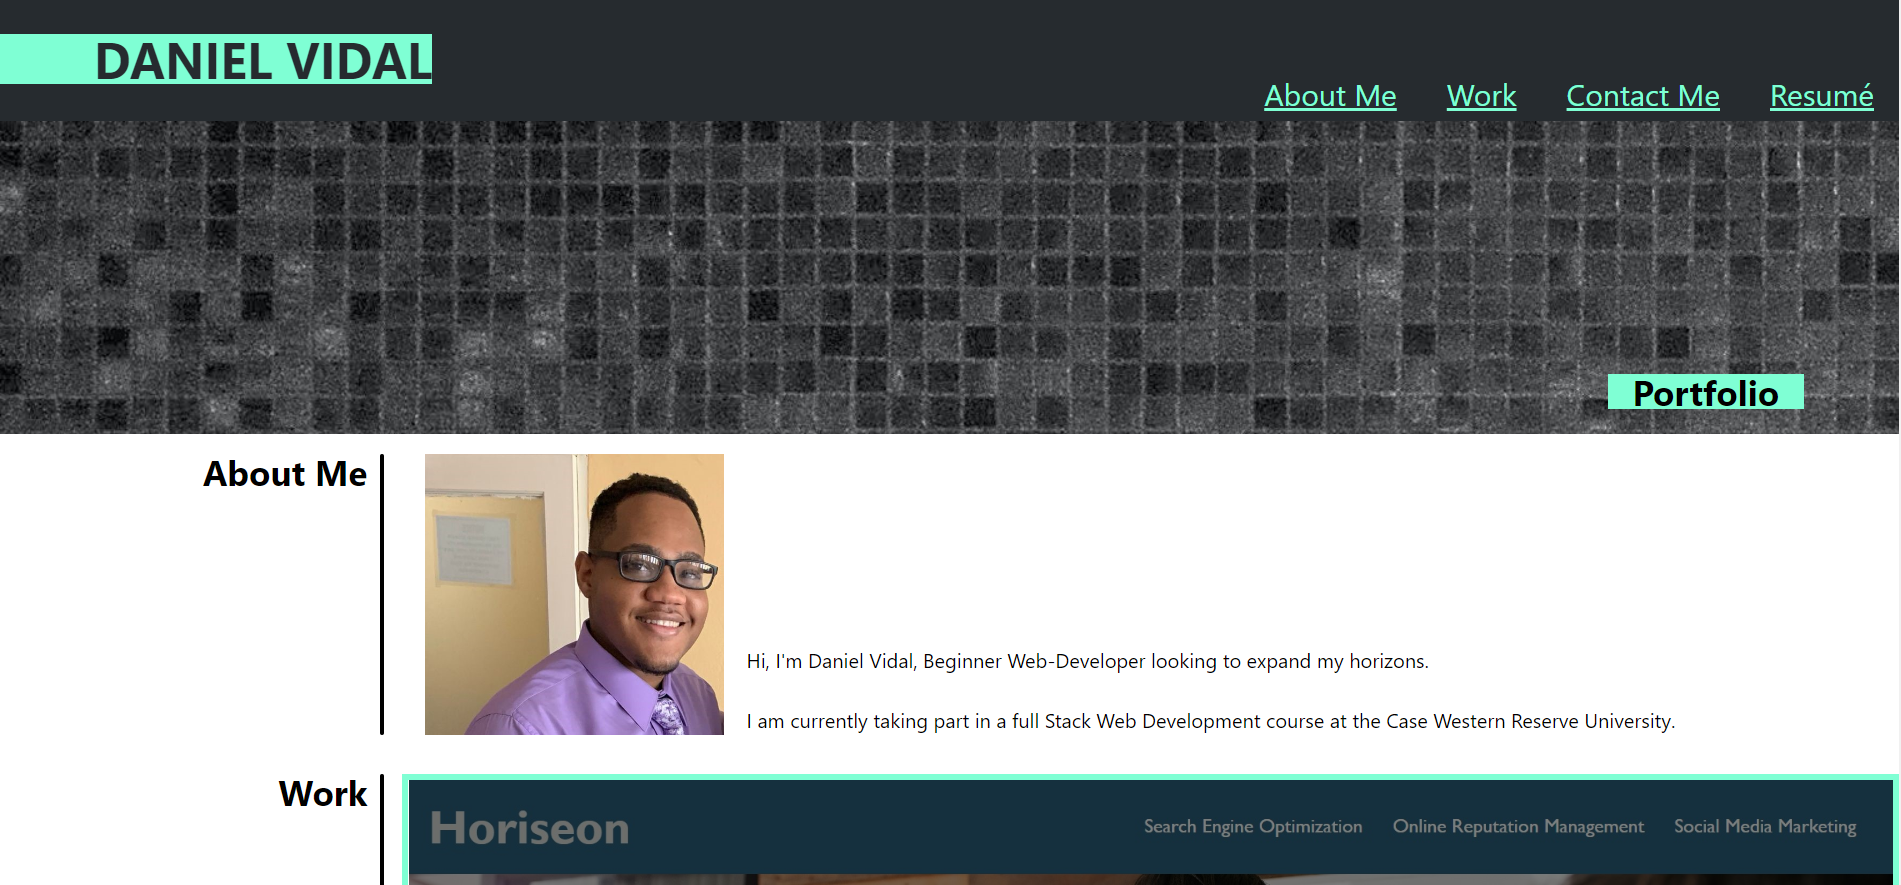
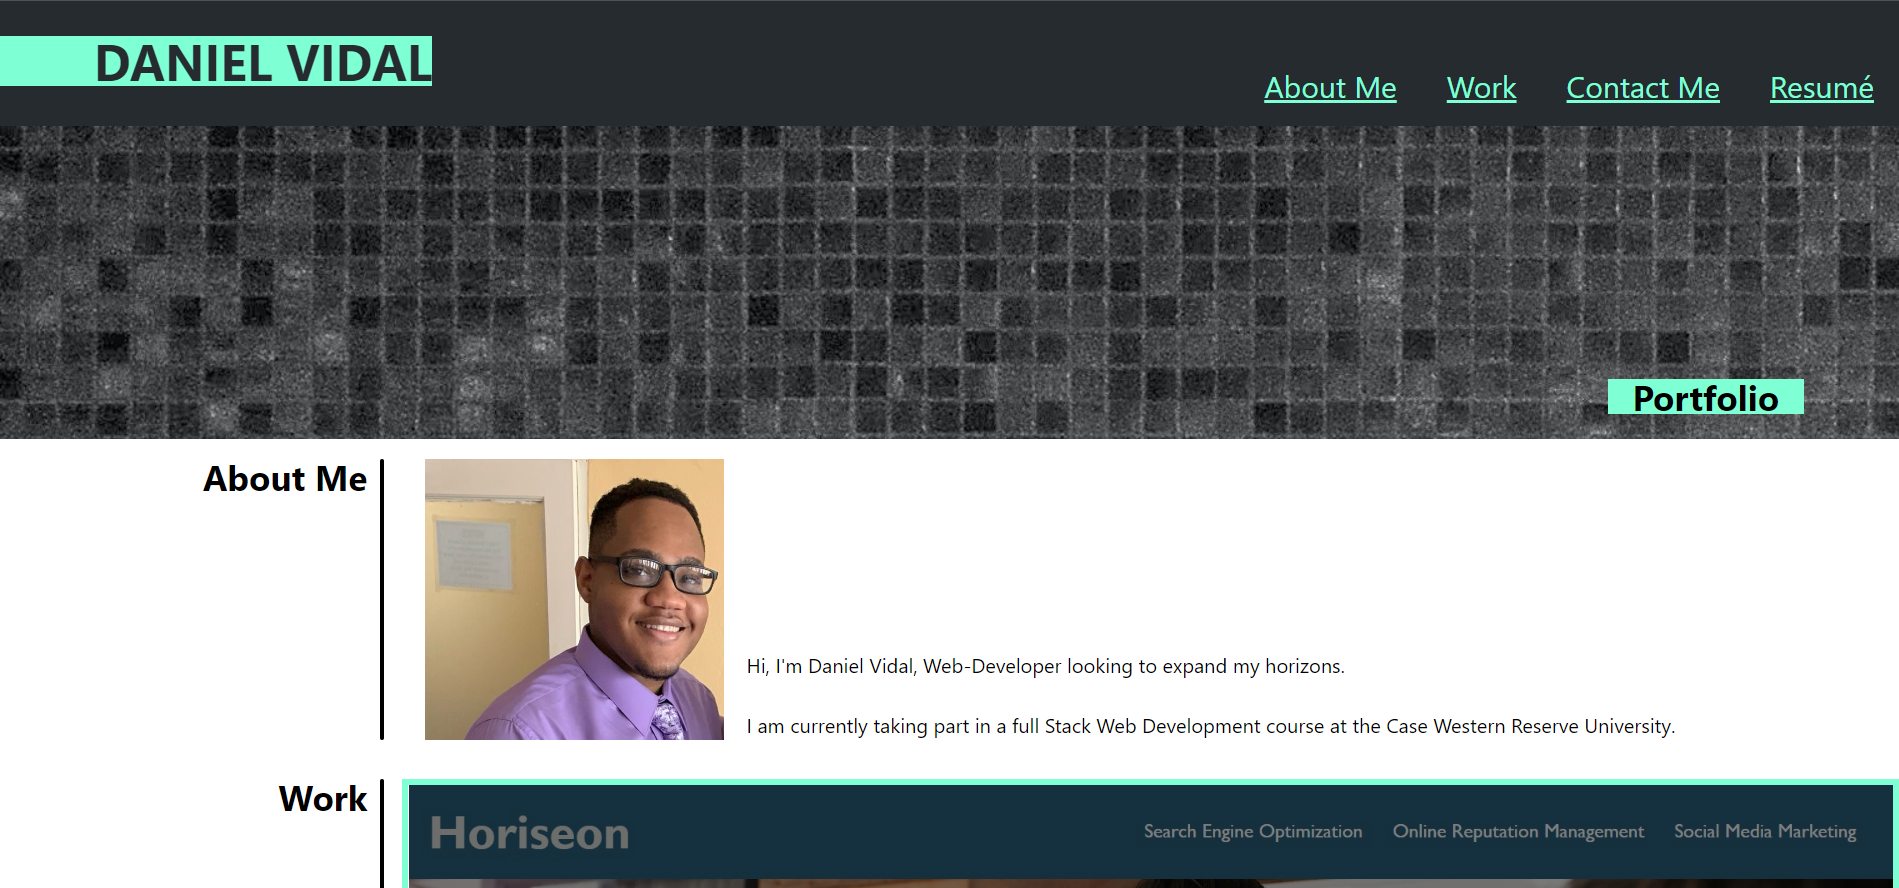
Additional adjustments in html text and css

diff --git a/index.html b/index.html
@@ -40,7 +40,7 @@
         <div class="right">
             <img src="./assets/images/IMG_1005.JPG"  id="daniel-vidal-image"/>
             <p>
-                Hi, I'm Daniel Vidal, Beginner Web-Developer looking to expand my horizons.
+                Hi, I'm Daniel Vidal, Web-Developer looking to expand my horizons.
                 <br>
                 <br>
                 I am currently taking part in a full Stack Web Development course at the Case Western Reserve University.
@@ -133,20 +133,26 @@
             </h2>
         </div>
         <div class="divider"></div>
-        <div class="right">
-            <ul>
-                <li>Phone: 347-287-4880</li>
-                <li>Email:
-                    <a href="mailto: daniel.vidal17@yahoo.com">
-                        daniel.vidal17@yahoo.com
-                    </a>
-                </li>
-                <li>
-                    <a href="https://github.com/DVidal1209" target="_blank" rel="norefferer noopen">
-                        My Github
-                    </a>
-                </li>
-            </ul>
+        <div class="right" id="contact">
+            <span>
+                Phone: 347-287-4880
+            </span>
+            <span>
+            Email: daniel.vidal17@yahoo.com
+                <a href="mailto: daniel.vidal17@yahoo.com">
+                    &#9993;
+                </a>
+            </span>
+            <span>
+                <a href="https://github.com/DVidal1209" target="_blank" rel="norefferer noopen">
+                    Github
+                </a>
+            </span>
+            <span>
+                <a href="" target="_blank" rel="norefferer noopen">
+                    LinkedIn
+                </a>
+            </span>
         </div>
     </div>
     <br>

diff --git a/assets/style.css b/assets/style.css
@@ -25,7 +25,7 @@
     height: 40%;
     padding-left: 75px;
     font-size: 250%;
-    top: 30%;
+    top: 28%;
     background-color: var(--navhback);
     color: var(--navback);
     text-transform: uppercase;
@@ -42,7 +42,7 @@
 .header a{
     text-decoration: underline;
     color: var(--navhback);
-    margin: 0 20px 10px 20px;
+    margin: 0 20px 20px 20px;
 }
 
 .header a:hover{
@@ -196,15 +196,16 @@
 
 }
 
-.right a{
-    color: black;
+#contact a{
+    color: blue;
     text-decoration-color: var(--navhback);
 }
 
-.right ul li{
-    min-width: 300px;
+#contact{
+    display: flex;
+    min-width: 25%;
     font-size: 110%;
-    text-align: center;
+    padding-right: 5%;
     text-decoration: underline;
     text-decoration-color: var(--navhback);
 }
